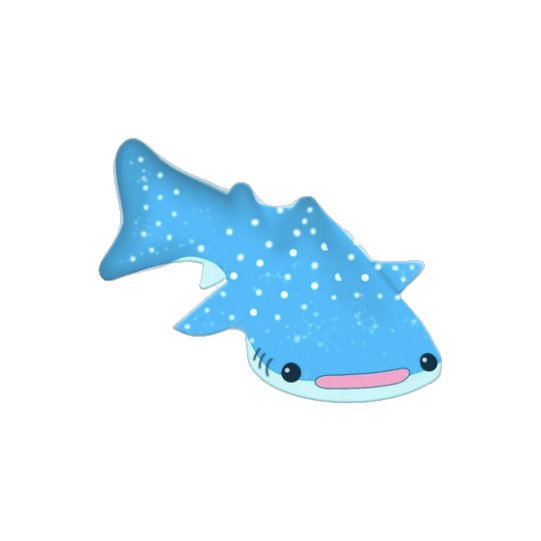
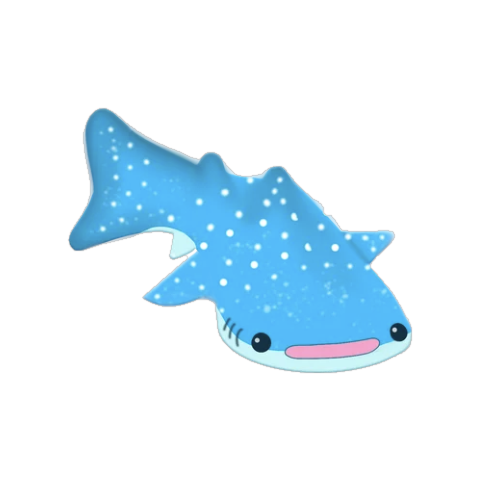
v263: Whale shark shows new image everywhere + slightly bigger
Two fixes:
1. Bigger framing: re-padded the whale shark so its body is ~72% of the square
   canvas (was 64%) — still fully inside the avatar circle, just larger.
2. New image now shows on ALL surfaces, not just the gallery. _avSrc() (the
   ?v= cache-buster) was only in the IIFE/gallery; moved it to module scope,
   exposed it as window.__fishAvSrc, and applied it to every avatar render
   point: profile header, in-game seats, leaderboard, chat, friends lists,
   public profile, endgame scoreboard, and streak-calendar legend. It only
   versions local /avatars/ paths (external Google avatars untouched).
   Bumped the version to ws4 so the new art loads immediately instead of a
   stale cached copy.

Changed region(s): [[0.1247, 0.2183, 0.8732, 0.7796], [0.6549, 0.5925, 0.7173, 0.6237], [0.4054, 0.4054, 0.4366, 0.4366]]

diff --git a/multiplayer/client/preview.html b/multiplayer/client/preview.html
@@ -10931,6 +10931,18 @@
     return "";
   }
 
+  // Display-only cache-bust for LOCAL avatar PNGs: appends ?v=VERSION so a
+  // refreshed avatar image (same /avatars/x.png path) is never served stale.
+  // Only touches /avatars/ paths — external (Google) avatar URLs are left as-is.
+  // Stored/compared paths stay clean; the server ignores the query (basename match).
+  const _AVATAR_ART_VERSION = "ws4";
+  function _avSrc(url) {
+    const u = String(url || "");
+    if (!u.startsWith("/avatars/") || u.includes("?")) return u;
+    return u + "?v=" + _AVATAR_ART_VERSION;
+  }
+  window.__fishAvSrc = _avSrc;
+
   // ── URL / API utilities (identical to index.html) ──────────────
   function normalizeBaseUrl(raw) { return String(raw||"").trim().replace(/\/+$/,""); }
   function normalizeAbsoluteBaseUrl(raw) {
@@ -17580,7 +17592,7 @@
           if (mine) avatarSrc = mine;
         }
       } catch (_) {}
-      avatarImg.src = avatarSrc;
+      avatarImg.src = (window.__fishAvSrc?window.__fishAvSrc(avatarSrc):avatarSrc);
       avatarImg.alt = playerName;
       avatarImg.style.display = "block";
       avatarLetter.style.display = "none";
@@ -17640,7 +17652,7 @@
       const isMine = latestPayload?.viewer?.name === playerName;
       let avatarSrc = (typeof pvSeatDefaultAvatar === "function") ? pvSeatDefaultAvatar(playerName) : "/avatars/mullet.png";
       try { if (isMine && typeof window.__fishMyAvatarUrl === "function") { const m = String(window.__fishMyAvatarUrl() || ""); if (m) avatarSrc = m; } } catch (_) {}
-      avatarImg.src = avatarSrc; avatarImg.alt = playerName;
+      avatarImg.src = (window.__fishAvSrc?window.__fishAvSrc(avatarSrc):avatarSrc); avatarImg.alt = playerName;
       avatarImg.style.display = "block"; avatarLetter.style.display = "none";
       if (!isMine && typeof window.__fishAvatarForNick === "function") {
         window.__fishAvatarForNick(playerName).then(url => { if (url && avatarImg.isConnected) avatarImg.src = url; }).catch(() => {});
@@ -19481,7 +19493,7 @@
         row.innerHTML = `
           <div class="gs-st-bg" style="background-image:url('${bgUrl}')"></div>
           <div class="gs-st-rank gs-st-rank-${Math.min(r,4)}">${rankIcon}</div>
-          <div class="gs-st-av"><img src="${avatarUrl}" alt="" onerror="this.src='/avatars/mullet.png'" loading="lazy"></div>
+          <div class="gs-st-av"><img src="${_avSrc(avatarUrl)}" alt="" onerror="this.src='/avatars/mullet.png'" loading="lazy"></div>
           <div class="gs-st-info"><div class="gs-st-name">${p.name||"?"}</div><div class="gs-st-env">${envLabel}</div></div>
           <div class="gs-st-score">${p.score||0} pts</div>`;
         rowsEl.appendChild(row);
@@ -19661,7 +19673,7 @@
       if (!avSrc) {
         avSrc = (typeof pvSeatDefaultAvatar === "function") ? pvSeatDefaultAvatar(senderName) : "/avatars/mullet.png";
       }
-      avImg.src = avSrc; avImg.alt = senderName; avImg.loading = "lazy";
+      avImg.src = (window.__fishAvSrc?window.__fishAvSrc(avSrc):avSrc); avImg.alt = senderName; avImg.loading = "lazy";
       avImg.onerror = () => { avImg.onerror = null; avImg.src = "/avatars/mullet.png"; };
       av.appendChild(avImg);
 
@@ -20660,16 +20672,6 @@
 
     function getDefaultAvatar(seed) {
       return DEFAULT_AVATAR_IMG;
-    }
-    // Display-only cache-bust for avatar images: appends a version query so a
-    // refreshed avatar PNG (same path) is never served stale. Bump when art
-    // changes. Does NOT affect stored/compared avatar paths (equality uses the
-    // clean /avatars/x.png), and the server ignores the query (matches basename).
-    const _AVATAR_ART_VERSION = "ws3";
-    function _avSrc(url) {
-      const u = String(url || "");
-      if (!u || u.includes("?")) return u;
-      return u + "?v=" + _AVATAR_ART_VERSION;
     }
     // An avatar is selectable if it's a starter or the player has unlocked it.
     function isAvatarUnlocked(img) {
@@ -21687,7 +21689,7 @@
         row.className = "ph-fr";
         const level = Number.isFinite(Number(f.level)) ? Math.max(1, Math.floor(Number(f.level))) : 1;
         const activeText = f.isOnline ? "Active now" : (f.lastActiveLabel || "Last active: —");
-        row.innerHTML = `<div class="ph-fr-av"><img src="${escapeHtml(f.avatarUrl)}" alt="${escapeHtml(f.nickname)} avatar" loading="lazy"></div><div class="ph-fr-main"><div class="ph-fr-name">${escapeHtml(f.nickname)}</div><div class="ph-fr-meta">Level ${level} • ${escapeHtml(activeText)}</div></div><div class="ph-fr-status ${f.isOnline ? "ph-fr-online" : "ph-fr-offline"}"><div class="ph-fr-dot"></div>${f.isOnline ? "Online" : "Offline"}</div>`;
+        row.innerHTML = `<div class="ph-fr-av"><img src="${escapeHtml(_avSrc(f.avatarUrl))}" alt="${escapeHtml(f.nickname)} avatar" loading="lazy"></div><div class="ph-fr-main"><div class="ph-fr-name">${escapeHtml(f.nickname)}</div><div class="ph-fr-meta">Level ${level} • ${escapeHtml(activeText)}</div></div><div class="ph-fr-status ${f.isOnline ? "ph-fr-online" : "ph-fr-offline"}"><div class="ph-fr-dot"></div>${f.isOnline ? "Online" : "Offline"}</div>`;
         previewEl.appendChild(row);
       });
     }
@@ -21814,7 +21816,7 @@
         }
         img.src = fallback;
       };
-      img.src = avatarUrl;
+      img.src = _avSrc(avatarUrl);
       wrap.classList.add("has-image");
     }
 
@@ -22516,7 +22518,7 @@
           { seed: f.uid || f.nickname || `friend-${i}` }
         ), f.uid || f.nickname || `friend-${i}`);
         const avatarHtml = avatarUrl
-          ? `<div class="ph-fr-av"><img src="${escapeHtml(avatarUrl)}" alt="${friendName} avatar" loading="lazy" referrerpolicy="no-referrer"></div>`
+          ? `<div class="ph-fr-av"><img src="${escapeHtml(_avSrc(avatarUrl))}" alt="${friendName} avatar" loading="lazy" referrerpolicy="no-referrer"></div>`
           : `<div class="ph-fr-av">${safeInitial(f.nickname || "?")}</div>`;
         const d = document.createElement("div");
         d.className = "ph-fr";
@@ -22591,7 +22593,7 @@
       // to the default mullet. The onerror is a last-resort safety net.
       const valid = (raw && typeof animalByImg === "function" && animalByImg(raw)) ? raw : "";
       const final = valid || (typeof getDefaultAvatar === "function" ? getDefaultAvatar(seed) : "/avatars/mullet.png");
-      return `<img class="ph-lb-avatar" src="${escHtmlPH(final)}" alt="" loading="lazy" onerror="this.src='/avatars/mullet.png'">`;
+      return `<img class="ph-lb-avatar" src="${escHtmlPH(_avSrc(final))}" alt="" loading="lazy" onerror="this.src='/avatars/mullet.png'">`;
     }
     function phLbRankTitle(cp) {
       const fn = typeof window._compGetRankFromCp === "function" ? window._compGetRankFromCp : null;
@@ -24133,7 +24135,7 @@
         const legAvatarDot = document.querySelector("#streak-cal-legend .sc-leg-dot.avatar");
         if (legAvatarDot) {
           if (avatarUrl) {
-            legAvatarDot.innerHTML = `<img src="${avatarUrl}" alt="" style="width:100%;height:100%;object-fit:cover;border-radius:50%;display:block;" onerror="this.style.display='none'">`;
+            legAvatarDot.innerHTML = `<img src="${_avSrc(avatarUrl)}" alt="" style="width:100%;height:100%;object-fit:cover;border-radius:50%;display:block;" onerror="this.style.display='none'">`;
             legAvatarDot.style.background = "transparent";
             legAvatarDot.style.boxShadow   = "0 0 0 2px rgba(245,166,35,.55)";
           } else {
@@ -25178,7 +25180,7 @@
         ? (normalizeAvatarUrl(profile.avatar_url || "") || "/avatars/mullet.png")
         : (profile.avatar_url || "/avatars/mullet.png");
       const avatarImg = $a("pub-avatar-img");
-      if (avatarImg) { avatarImg.src = avatarUrl; avatarImg.alt = (profile.nickname || "Player") + " avatar"; }
+      if (avatarImg) { avatarImg.src = _avSrc(avatarUrl); avatarImg.alt = (profile.nickname || "Player") + " avatar"; }
       const nickEl = $a("pub-nick");
       if (nickEl) nickEl.textContent = profile.nickname || "Unknown";
       let level = 1;
@@ -26993,7 +26995,7 @@
           const d = document.createElement("div");
           d.className = "ph-fr";
           const friendName = escapeHtml(f.nickname || "—");
-          const avatarHtml = `<div class="ph-fr-av"><img src="${escapeHtml(f.avatarUrl)}" alt="${friendName} avatar" loading="lazy"></div>`;
+          const avatarHtml = `<div class="ph-fr-av"><img src="${escapeHtml(_avSrc(f.avatarUrl))}" alt="${friendName} avatar" loading="lazy"></div>`;
           const level = Number.isFinite(Number(f.level)) ? Math.max(1, Math.floor(Number(f.level))) : 1;
           const activeText = f.isOnline ? "Active now" : (f.lastActiveLabel || "Last active: —");
           d.innerHTML = `${avatarHtml}<div class="ph-fr-main"><div class="ph-fr-name">${friendName}</div><div class="ph-fr-meta">Level ${level} • ${escapeHtml(activeText)}</div></div><div class="ph-fr-status ${f.isOnline ? "ph-fr-online" : "ph-fr-offline"}"><div class="ph-fr-dot"></div>${f.isOnline ? "Online" : "Offline"}</div>`;
@@ -27055,7 +27057,7 @@
           { seed: f.uid || f.nickname || "friend" }
         ), f.uid || f.nickname || "friend");
         const avatarHtml = avatarUrl
-          ? `<div class="ph-fr-av"><img src="${escapeHtml(avatarUrl)}" alt="${friendName} avatar" loading="lazy" referrerpolicy="no-referrer"></div>`
+          ? `<div class="ph-fr-av"><img src="${escapeHtml(_avSrc(avatarUrl))}" alt="${friendName} avatar" loading="lazy" referrerpolicy="no-referrer"></div>`
           : `<div class="ph-fr-av">${safeInitial(f.nickname || "?")}</div>`;
         const friendRoomId = avatarProfile && avatarProfile.current_room_id
           ? String(avatarProfile.current_room_id).trim() : "";
